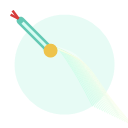
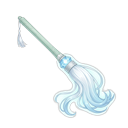
feat(art): 灵木拂尘重设计实装（对齐清虚仙子）+ 帧捕获校验工具
贴图
- public/weapon_fuchen.png 由占位图换成按文稿重绘的正式美术：
  128x128 RGBA，6.8KB -> 11.5KB
- 抠底用 import_art.py 连通域算法，容差按本图实测调紧到 4/14。
  默认 10/48 会把拂丝核心（距白底约 38）压到 74% 透明 —— 拂丝几近消失
- 配色合规实测：新图固有色饱和度中位 11.8 / 均值 13.9，
  角色基准为 15.5 / 16.7；99.9 分位两者同为 51.3，完全落在同一区间

游戏内程序化绘制
- drawFuchenEntity：原先只有 3 行淡青叶片形，现按文稿重绘为
  青玉手柄 + 银白束环 + 冰蓝灵晶 + 银白扇形拂丝 + 薄青白辉光
- 长度从 41 单位收紧到 27 单位。法修单法宝由 drawFloatingWeapons 以
  固定偏移 (-20,-14)、scale=1 绘制，超过约 30 单位就会横贯角色身体
  并挡住束环与灵晶（实测截图确认）
- fuchen_wave 弹道由高饱和薄荷绿改为银白渐冰蓝扇形，与角色同色系

新增工具
- tools/capture_frame.cjs + npm run art:frame：
  Electron 离屏加载构建产物、驱动到战斗中并导出画布，用于贴图改动的实装回归。
  必须与生产一致地关闭 nodeIntegration —— 否则渲染进程存在 process.versions.node，
  main.js 的 isHeadless 变 true，renderScale 退化为 1 且跳过大量特效，截图不可信

校验：13/13 测试套件通过；已用差分截图确认实装效果

Changed region(s): [[0.0625, 0.0625, 0.9062, 0.9375]]

diff --git a/src/main.js b/src/main.js
@@ -11515,8 +11515,27 @@ function drawProjectileModel(proj, elapsed) {
     ctx.strokeStyle = '#ffffff'; ctx.lineWidth = 1.2; ctx.stroke()
     ctx.fillStyle = '#1e293b'; ctx.beginPath(); ctx.arc(0, 0, 4, 0, Math.PI); ctx.fill()
   } else if (kind === 'fuchen') {
-    ctx.fillStyle = 'rgba(180, 240, 235, 0.9)'
-    ctx.beginPath(); ctx.moveTo(12, 0); ctx.quadraticCurveTo(0, -6, -14, -2); ctx.quadraticCurveTo(0, 6, 12, 0); ctx.closePath(); ctx.fill()
+    // 碧霞仙浪扇面：银白渐至冰蓝，与清虚仙子同色系（原为高饱和薄荷绿）
+    const fanGrad = ctx.createLinearGradient(16, 0, -10, 0)
+    fanGrad.addColorStop(0, 'rgba(255, 255, 255, 0.95)')
+    fanGrad.addColorStop(0.5, 'rgba(207, 230, 240, 0.85)')
+    fanGrad.addColorStop(1, 'rgba(176, 208, 226, 0)')
+    ctx.fillStyle = fanGrad
+    ctx.beginPath()
+    ctx.moveTo(-10, 0)
+    ctx.lineTo(13, -10)
+    ctx.quadraticCurveTo(19, 0, 13, 10)
+    ctx.closePath()
+    ctx.fill()
+    // 拂丝高光：几道银白细弧
+    ctx.strokeStyle = 'rgba(255, 255, 255, 0.75)'
+    ctx.lineWidth = 1
+    for (let i = -1; i <= 1; i++) {
+      ctx.beginPath()
+      ctx.moveTo(-8, i * 2.5)
+      ctx.quadraticCurveTo(4, i * 6.5, 14, i * 8)
+      ctx.stroke()
+    }
   } else if (kind === 'baozhu') {
     const grad = ctx.createRadialGradient(0, 0, 1, 0, 0, 8)
     grad.addColorStop(0, '#ffffff'); grad.addColorStop(0.5, '#d8b4fe'); grad.addColorStop(1, 'rgba(168, 85, 247, 0)')
@@ -12132,26 +12151,73 @@ function drawFuchenEntity(c, x, y, angle, scale = 1, isAttacking = false, attack
   c.rotate(angle)
   c.scale(scale, scale)
 
-  c.fillStyle = '#78350f'
-  c.fillRect(-14, -1.8, 14, 3.6)
-  c.fillStyle = '#f59e0b'
-  c.fillRect(-2, -2.4, 3, 4.8)
+  // 灵木拂尘 —— 对齐清虚仙子：青玉为骨 / 银白为魂 / 冰蓝为灵
+  // 造型依据 art-source/briefs/weapon_fuchen_redesign.md
+  // 轴向约定与其他法宝一致：柄在 -x，拂尾朝 +x。
+  //
+  // 尺寸约束：法修单法宝时由 drawFloatingWeapons 以固定偏移 (-20,-14)、scale=1 绘制，
+  // 器物总长若超过约 30 单位就会横贯角色身体、并挡住束环与灵晶。故全长控制在 27 单位。
 
-  const wave = Math.sin((x + y) * 0.1) * 3
-  c.fillStyle = 'rgba(240, 253, 250, 0.85)'
+  // 1. 尾端银白短绦（先画，被柄身压住一部分）
+  c.strokeStyle = 'rgba(232, 238, 242, 0.75)'
+  c.lineWidth = 1
   c.beginPath()
-  c.moveTo(1, -2)
-  c.quadraticCurveTo(10, -5 + wave, 18, 0)
-  c.quadraticCurveTo(12, 5 + wave, 1, 2)
-  c.closePath()
+  c.moveTo(-11, 0)
+  c.quadraticCurveTo(-14, 1.2, -15.6, 2.8)
+  c.stroke()
+
+  // 2. 手柄：玉化灵木（青瓷淡青玉；上缘受光、下缘入暗）
+  const woodGrad = c.createLinearGradient(0, -2.4, 0, 2.4)
+  woodGrad.addColorStop(0, '#D8E8DE')
+  woodGrad.addColorStop(0.5, '#A9C6B8')
+  woodGrad.addColorStop(1, '#7E9C8C')
+  c.fillStyle = woodGrad
+  c.fillRect(-11, -2.2, 9, 4.4)
+
+  // 3. 束环：哑光银白玉箍，灵晶镶嵌其中
+  c.fillStyle = '#C3CFD8'
+  c.fillRect(-2, -3.2, 6, 6.4)
+  c.fillStyle = '#E8EEF2'
+  c.fillRect(-2, -3.2, 6, 2.4)
+
+  // 4. 灵枢宝珠：冰蓝灵晶（与角色手中的灵晶同色，是"这把武器属于她"的识别点）
+  const gemGrad = c.createRadialGradient(0.2, -0.9, 0.2, 1, 0, 3.1)
+  gemGrad.addColorStop(0, '#FFFFFF')
+  gemGrad.addColorStop(0.5, '#CFE6F0')
+  gemGrad.addColorStop(1, 'rgba(176, 208, 226, 0.95)')
+  c.fillStyle = gemGrad
+  c.beginPath()
+  c.arc(1, 0, 2.7, 0, Math.PI * 2)
   c.fill()
 
-  c.strokeStyle = '#99f6e4'
-  c.lineWidth = 1.2
+  // 5. 拂丝：银白扇形，根部纯白渐至末端冰蓝
+  const wave = Math.sin((x + y) * 0.1) * 1.8
+  const spread = isAttacking ? 1 + Math.sin(attackProgress * Math.PI) * 0.35 : 1
+  const tipX = 16 * spread
+  const silkGrad = c.createLinearGradient(4, 0, tipX, 0)
+  silkGrad.addColorStop(0, 'rgba(255, 255, 255, 0.96)')
+  silkGrad.addColorStop(0.55, 'rgba(233, 242, 246, 0.9)')
+  silkGrad.addColorStop(1, 'rgba(176, 208, 226, 0.88)')
+  c.strokeStyle = silkGrad
+  c.lineWidth = 1.6
+  c.lineCap = 'round'
+  for (let i = 0; i < 5; i++) {
+    const off = (i / 4 - 0.5) * 2
+    c.beginPath()
+    c.moveTo(4, off * 1.3)
+    c.quadraticCurveTo(10, off * 4 + wave * 0.7, tipX, off * 5.6 * spread + wave)
+    c.stroke()
+  }
+
+  // 6. 外缘薄青白辉光（加色；薄而通透，不糊成雾团）
+  c.globalCompositeOperation = 'lighter'
+  c.strokeStyle = 'rgba(150, 232, 224, 0.3)'
+  c.lineWidth = 3.2
   c.beginPath()
-  c.moveTo(1, 0)
-  c.quadraticCurveTo(12, wave, 19, wave * 0.5)
+  c.moveTo(4, 0)
+  c.quadraticCurveTo(10, wave, tipX, wave * 0.5)
   c.stroke()
+  c.globalCompositeOperation = 'source-over'
 
   c.restore()
 }
